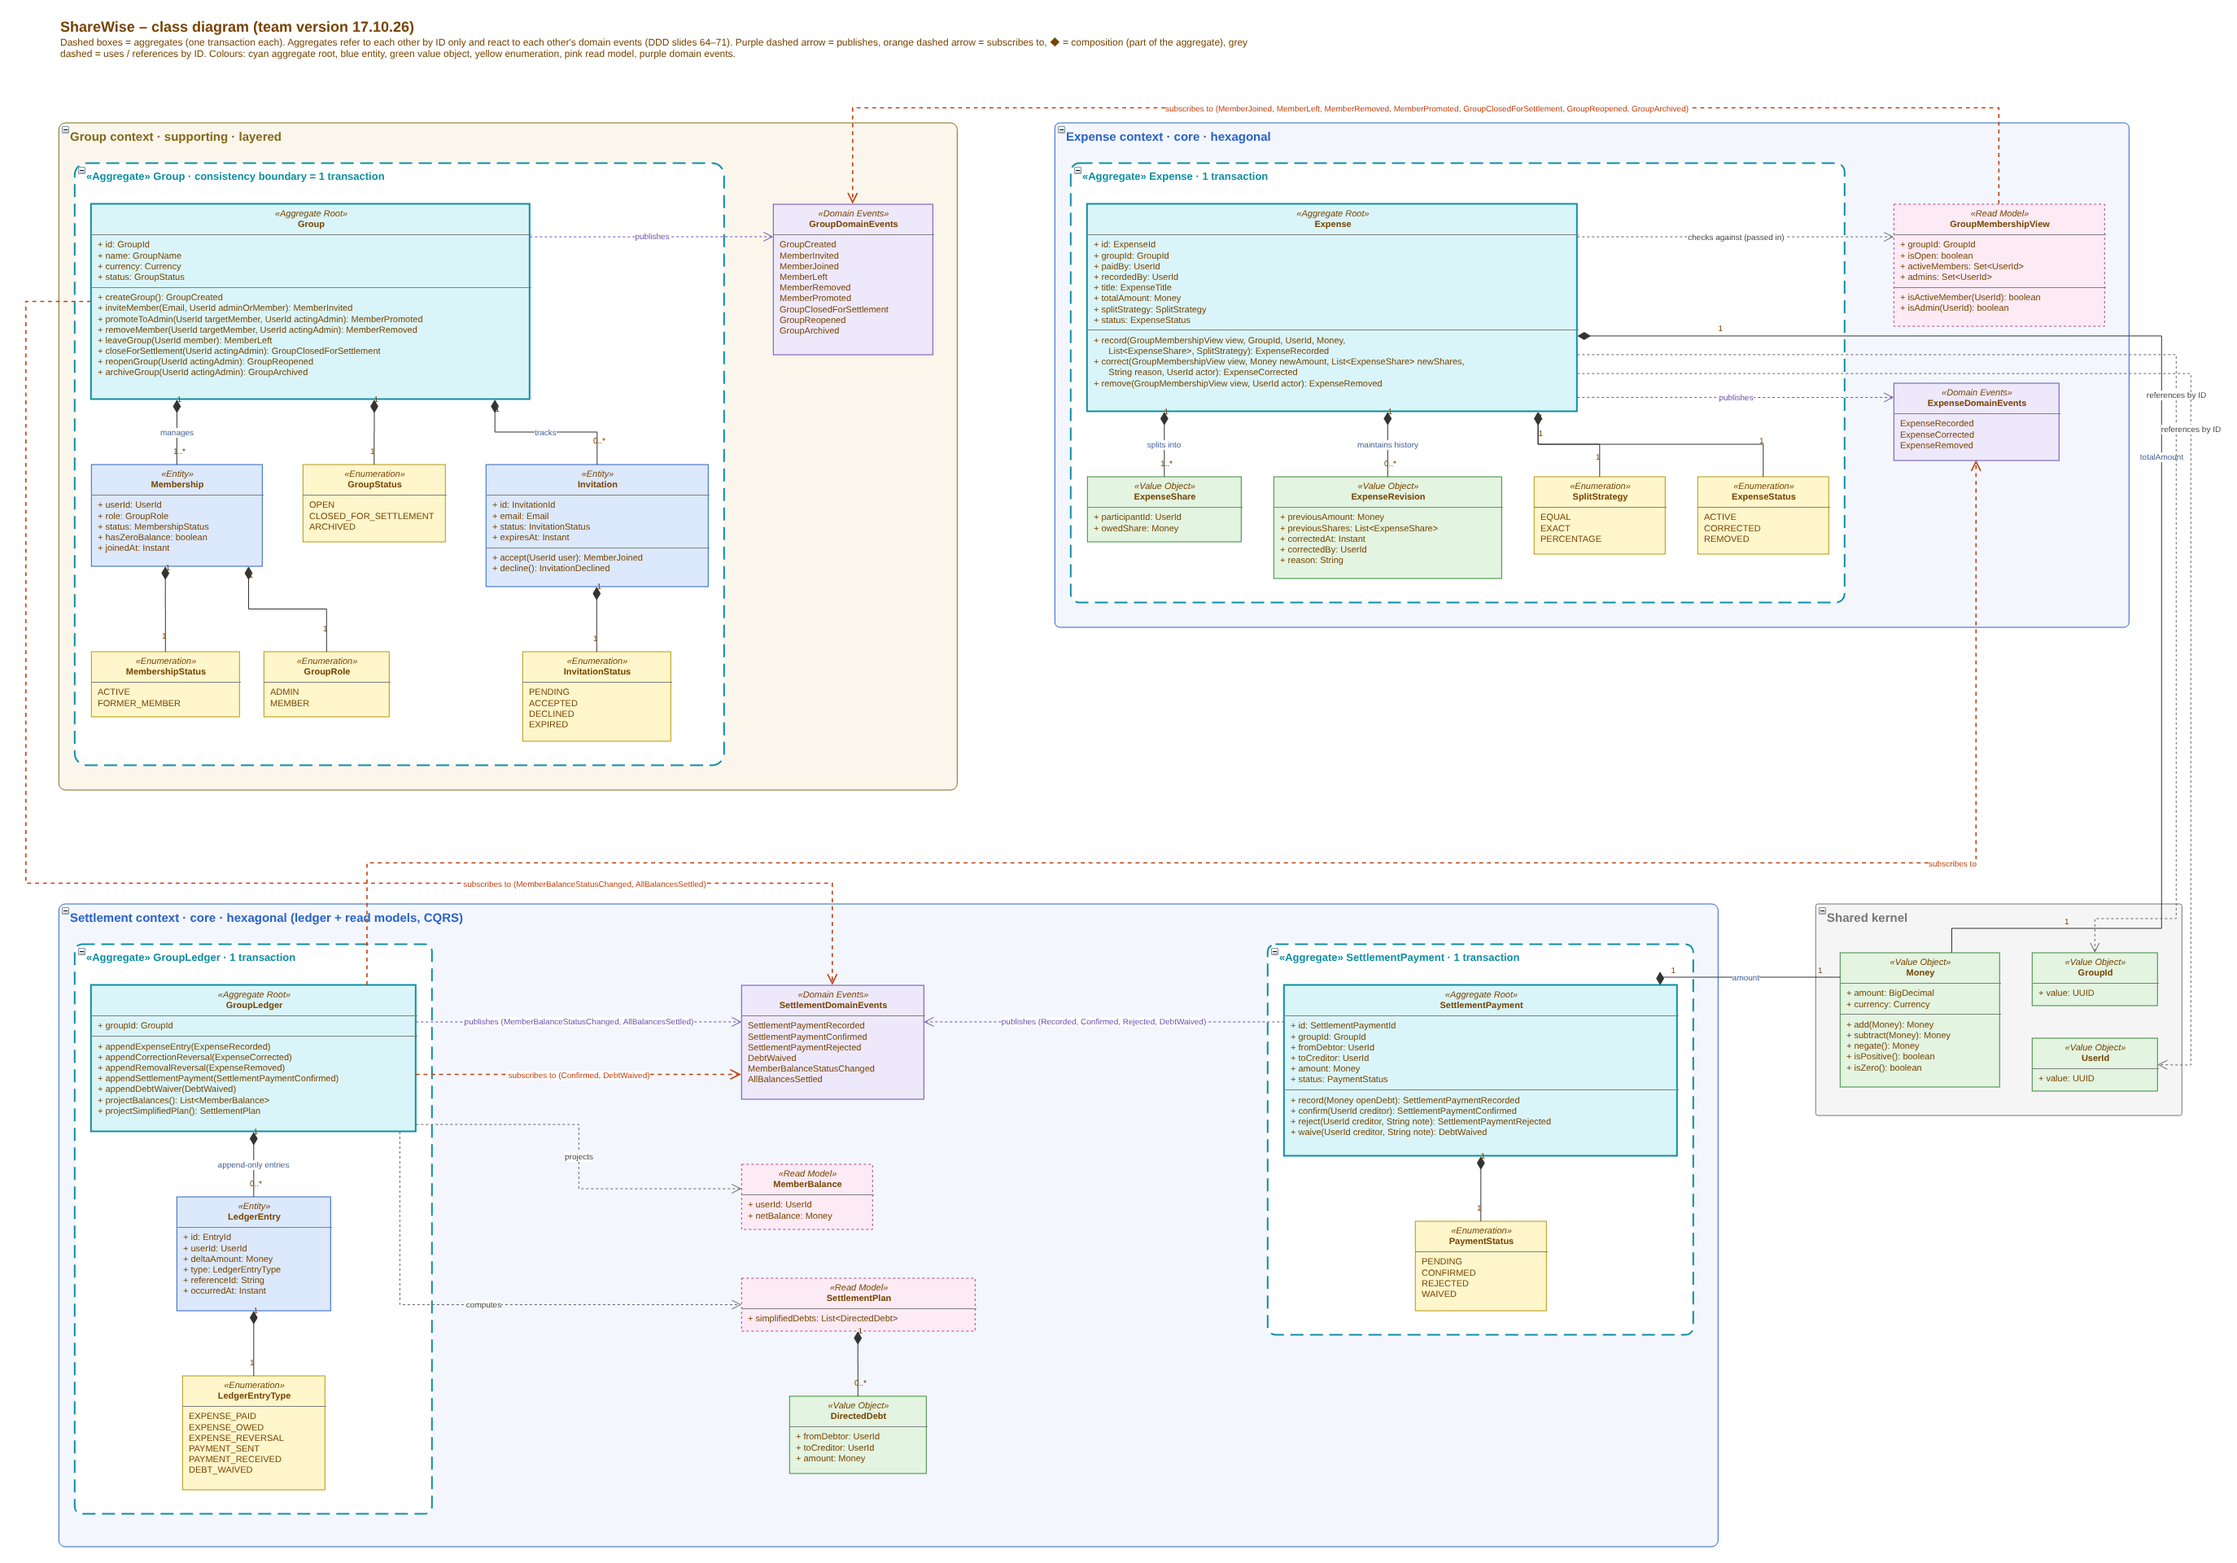
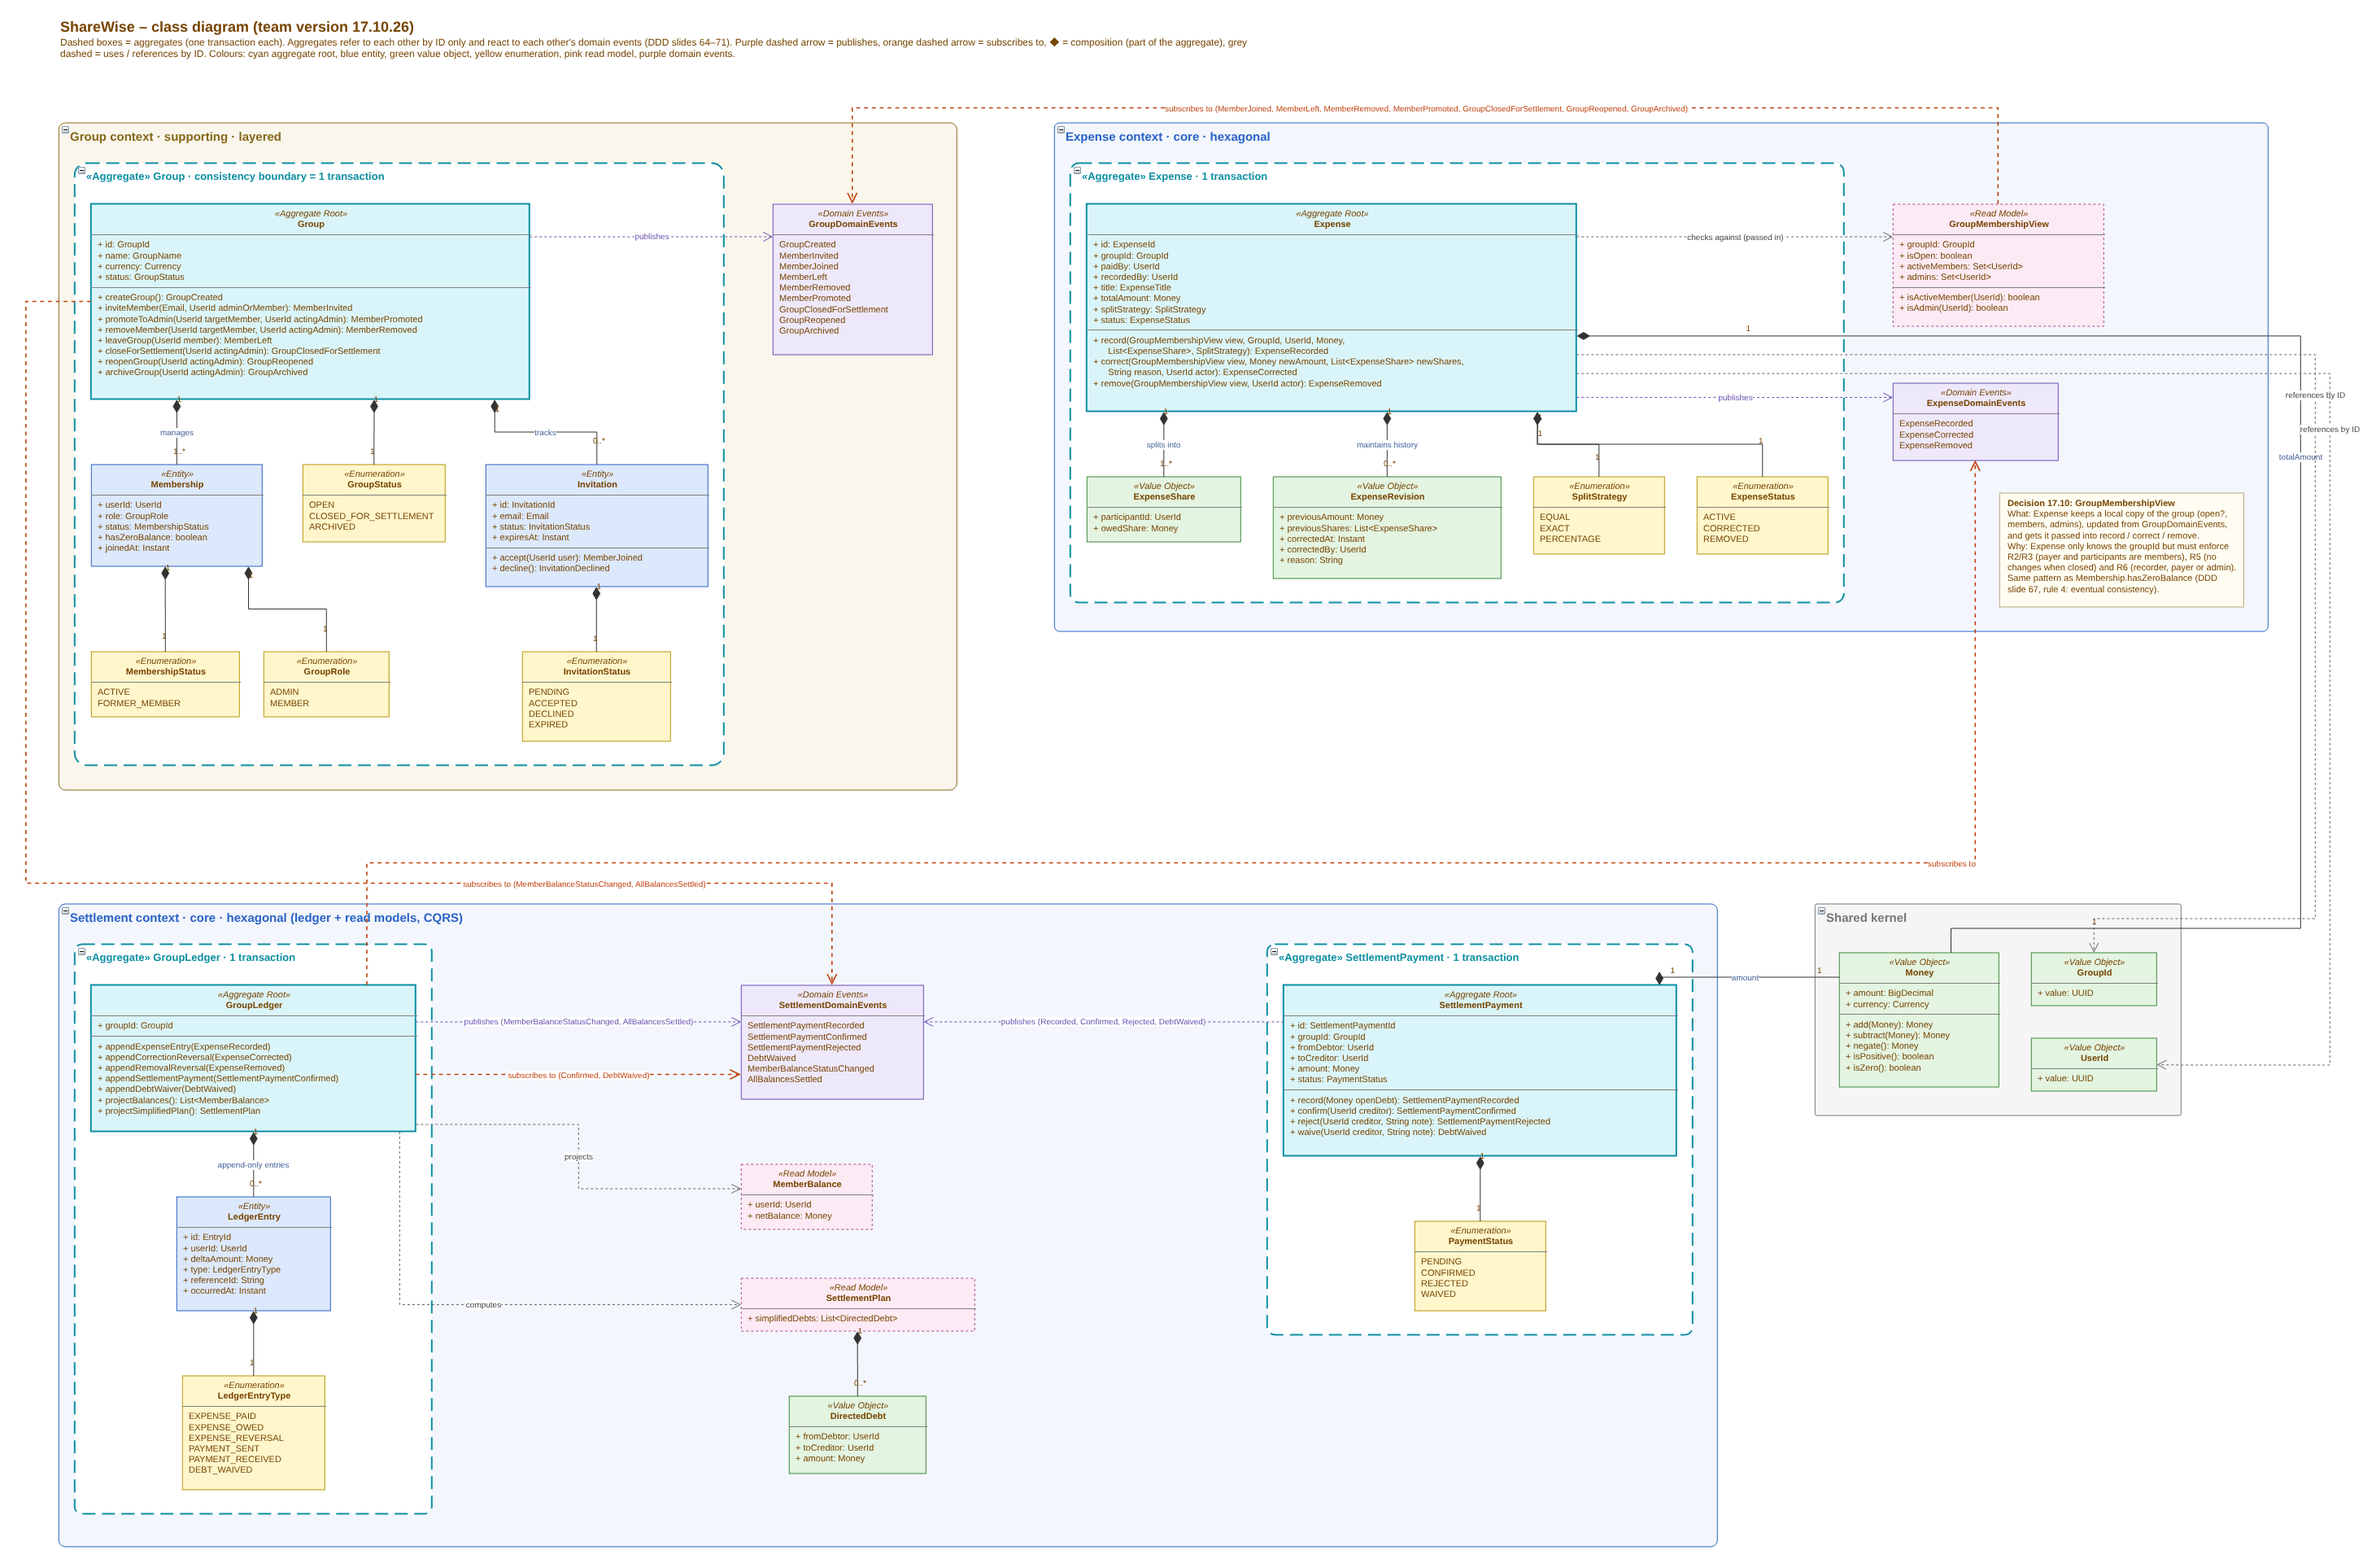
Team diagram: note explaining the GroupMembershipView decision
Claude-Session: https://claude.ai/code/session_01XWcDcA4MpQE7WFgrEA8CzJ

diff --git a/work/tools/gen_team_diagram.py b/work/tools/gen_team_diagram.py
@@ -111,6 +111,14 @@ def container(cid, parent, x, y, w, h, title, fill, stroke, dashed=False):
     box[cid] = (px + x, py + y, w, h)
 
 
+def note(cid, parent, x, y, w, h, text):
+    style = ("shape=note;whiteSpace=wrap;html=1;size=14;align=left;verticalAlign=top;spacingLeft=8;spacingTop=4;"
+             "spacingRight=8;fontSize=11;fillColor=#FFFDF2;strokeColor=#B8A77A;")
+    cells.append(f'<mxCell id="{cid}" value="{html.escape(text, quote=True)}" style="{style}" vertex="1" parent="{parent}">'
+                 f'<mxGeometry x="{x}" y="{y}" width="{w}" height="{h}" as="geometry"/></mxCell>')
+    box[cid] = (box[parent][0] + x, box[parent][1] + y, w, h)
+
+
 def cls(name, parent, x, y):
     kind, attrs, methods = C[name]
     fill, stroke, extra = STY[kind]
@@ -221,8 +229,18 @@ cells[i] = cells[i].replace('width="10" height="10"', f'width="{ae_w}" height="{
 RC = 20 + ae_w + 60                                  # right column of the Expense context
 gmw, gmh = cls("GroupMembershipView", "E", RC, 100)
 cls("ExpenseDomainEvents", "E", RC, 100 + gmh + 70)
-e_w = RC + max(gmw, size("ExpenseDomainEvents")[0]) + 30
-e_h = max(50 + ae_h, 100 + gmh + 70 + size("ExpenseDomainEvents")[1]) + 30
+edw, edh = size("ExpenseDomainEvents")
+# note on the 17.10 decision, below the events box and right of the line that enters it from below
+NX, NY, NW, NH = RC + edw // 2 + 30, 100 + gmh + 70 + edh + 40, 300, 140
+note("noteView", "E", NX, NY, NW, NH,
+     "<b>Decision 17.10: GroupMembershipView</b><br/>"
+     "What: Expense keeps a local copy of the group (open?, members, admins), updated from GroupDomainEvents, "
+     "and gets it passed into record / correct / remove.<br/>"
+     "Why: Expense only knows the groupId but must enforce R2/R3 (payer and participants are members), "
+     "R5 (no changes when closed) and R6 (recorder, payer or admin). Same pattern as Membership.hasZeroBalance "
+     "(DDD slide 67, rule 4: eventual consistency).")
+e_w = max(RC + max(gmw, edw), NX + NW) + 30
+e_h = max(50 + ae_h, NY + NH) + 30
 i = [k for k, c in enumerate(cells) if 'id="E"' in c][0]
 cells[i] = cells[i].replace('width="10" height="10"', f'width="{e_w}" height="{e_h}"'); box["E"] = (E0[0], E0[1], e_w, e_h)
 
